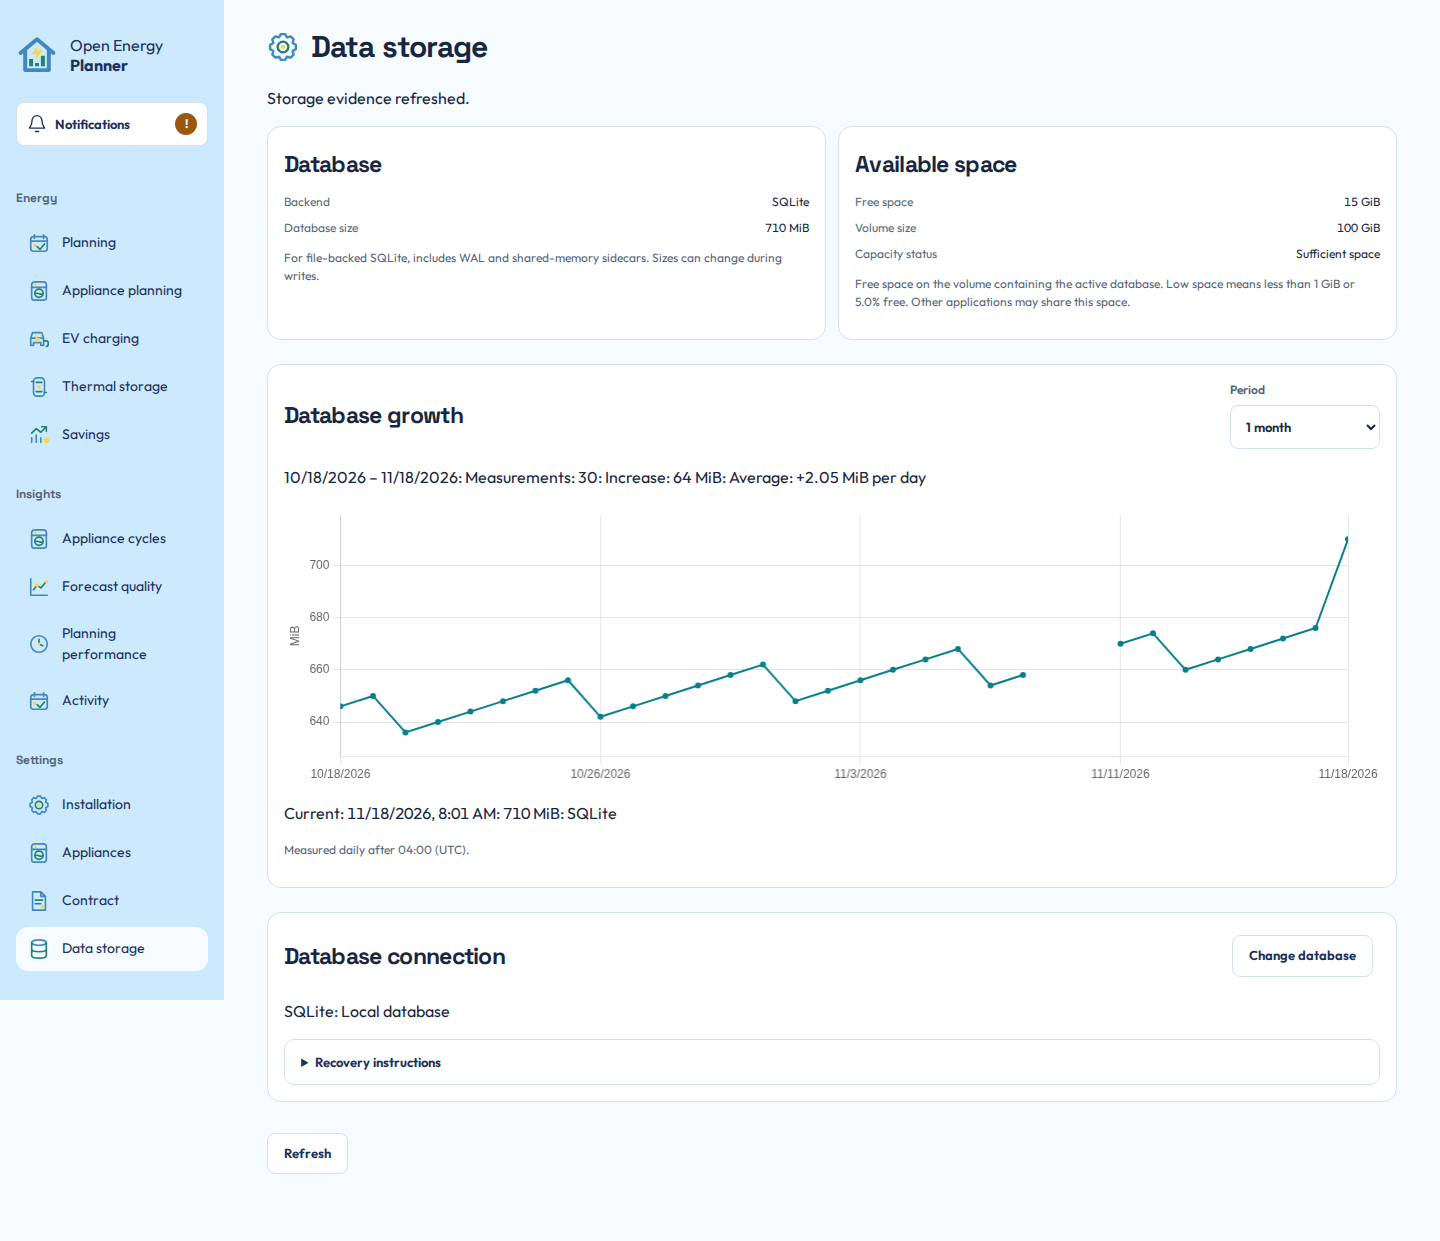
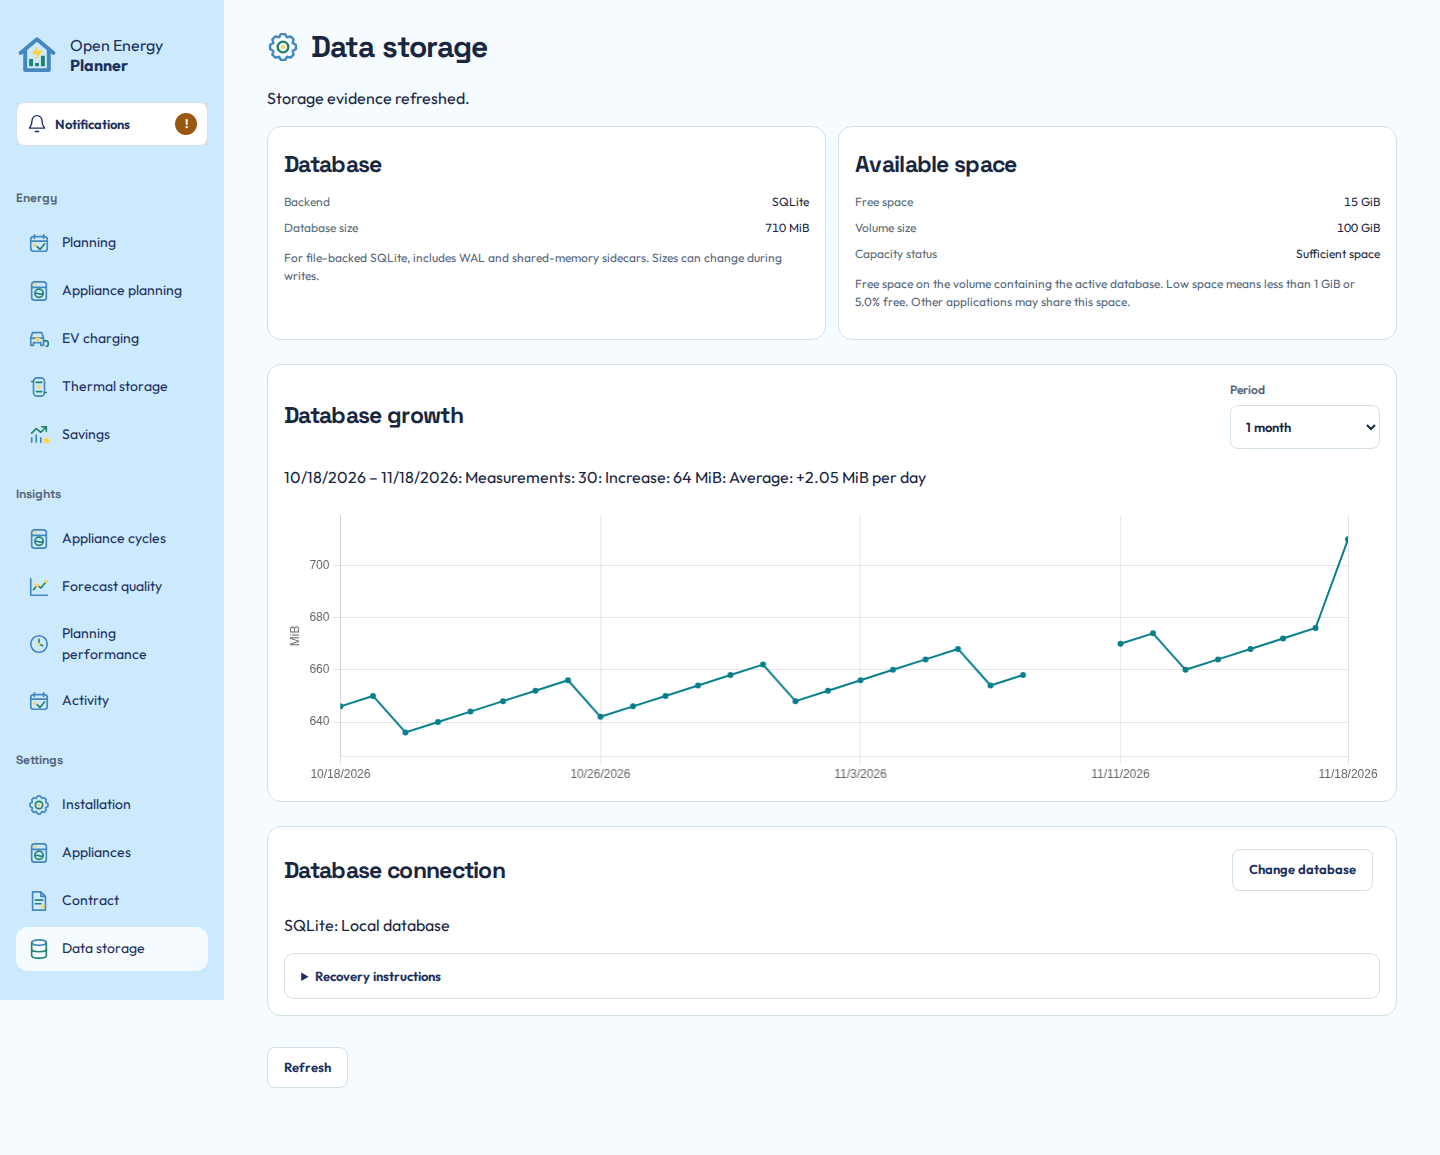
fix: remove redundant database chart captions

diff --git a/src/open_energy_planner/web/public/storage-history.js b/src/open_energy_planner/web/public/storage-history.js
@@ -44,8 +44,6 @@ export function bindStorageHistory(readToken, bytes, showDatabase) {
                 measurement = history.latest;
                 showDatabase(measurement || {...currentUsage, database_bytes: null});
             }
-            const sampleTime = `${String(history.sample_hour).padStart(2, "0")}:00`;
-            find("storage-history-note").textContent = history.timezone ? `Measured daily after ${sampleTime} (${history.timezone}).` : "Daily measurements start when the Home Assistant installation timezone is available.";
             if (!history.timezone) {
                 find("storage-history-summary").textContent = "Waiting for the Home Assistant installation timezone. Refresh after the connection is restored.";
                 return;
@@ -129,10 +127,16 @@ export function bindStorageHistory(readToken, bytes, showDatabase) {
     find("storage-period").addEventListener("change", () => load());
     find("storage-observation").addEventListener("change", event => inspect(Number(event.target.value)));
     find("storage-history-chart").addEventListener("keydown", event => {
-        if (!["ArrowLeft", "ArrowRight", "Home", "End"].includes(event.key) || !samples.length) return;
+        if (!["ArrowLeft", "ArrowRight", "Home", "End"].includes(event.key) || !samples.length || !chart) return;
         event.preventDefault();
         keyboardSelection = true;
         inspect(event.key === "Home" ? 0 : event.key === "End" ? samples.length - 1 : Math.max(0, Math.min(samples.length - 1, selected + (event.key === "ArrowRight" ? 1 : -1))));
+        const index = chart.data.datasets[0].data.findIndex(point => point.row === samples[selected]);
+        const point = chart.getDatasetMeta(0).data[index];
+        const active = [{datasetIndex: 0, index}];
+        chart.setActiveElements(active);
+        chart.tooltip.setActiveElements(active, {x: point.x, y: point.y});
+        chart.update();
     });
     find("storage-history-chart").addEventListener("pointerdown", () => { keyboardSelection = false; });
     find("storage-history-chart").addEventListener("pointermove", () => { keyboardSelection = false; });

diff --git a/src/open_energy_planner/web/public/storage-history.css b/src/open_energy_planner/web/public/storage-history.css
@@ -6,5 +6,7 @@
 .storage-history-heading select,#storage-observation {min-height:44px}
 .storage-history-plot {height:280px;position:relative;min-width:0}
 #storage-history-chart:focus-visible {outline:2px solid var(--oep-teal,#21836d);outline-offset:4px}
-#storage-history-selected {min-height:1.5em;font-variant-numeric:tabular-nums}
+#storage-history-selected {font-variant-numeric:tabular-nums}
+#storage-history-selected:empty {display:none}
+.storage-history-plot:not([hidden]) ~ #storage-history-selected {position:absolute;width:1px;height:1px;padding:0;margin:-1px;overflow:hidden;clip-path:inset(50%)}
 @media(max-width:640px) {.storage-history-heading label {width:100%}.storage-history-plot {height:240px}}

diff --git a/src/open_energy_planner/web/pages/data-storage.html b/src/open_energy_planner/web/pages/data-storage.html
@@ -16,7 +16,6 @@
 <div class="storage-history-plot" id="storage-history-plot" hidden><canvas id="storage-history-chart" tabindex="0" role="img" aria-label="Daily database size. Use Left and Right arrow keys to inspect measurements." aria-describedby="storage-history-selected"></canvas></div>
 <div id="storage-observation-field" hidden><label for="storage-observation">Observation</label><select id="storage-observation"></select></div>
 <p id="storage-history-selected" aria-live="polite"></p>
-<p id="storage-history-note" class="muted"></p>
 </section>
 </section>
 <section class="evidence-card storage-connection" aria-labelledby="connection-title" id="database-connection" hidden>

diff --git a/tests/frontend/browser/test_storage_history.py b/tests/frontend/browser/test_storage_history.py
@@ -99,6 +99,17 @@ def test_daily_storage_chart_periods_keyboard_gaps_and_recovery(daily_storage_hi
     assert page.locator("#storage-history-selected").inner_text() != first
     canvas.press("End")
     expect(page.locator("#storage-history-selected")).to_contain_text("SQLite")
+    expect(canvas).to_have_accessible_description(
+        page.locator("#storage-history-selected").text_content()
+    )
+    tooltip = page.evaluate(
+        "() => {const tooltip=Chart.getChart(document.getElementById('storage-history-chart')).tooltip;return {opacity:tooltip.opacity,title:tooltip.title,label:tooltip.body[0].lines[0]};}"
+    )
+    assert tooltip["opacity"] == 1 and "680 MiB" in tooltip["label"]
+    assert tooltip["title"] == ["11/18/2026, 4:00 AM"]
+    selected_bounds = page.locator("#storage-history-selected").bounding_box()
+    assert selected_bounds["width"] == 1 and selected_bounds["height"] == 1
+    assert "Measured daily after" not in page.locator("main").inner_text()
     page.locator("#storage-history-title").click()
     page.evaluate("window.scrollTo(0, 0)")
     page.screenshot(
@@ -277,6 +288,17 @@ def test_storage_history_empty_unknown_and_backend_changes(app_page):
     expect(page.locator("#storage-history-selected")).to_contain_text("SQLite")
     assert page.evaluate(
         "Chart.getChart(document.getElementById('storage-history-chart')).getDatasetMeta(0).dataset.segments.some(segment => segment.style?.borderColor === 'transparent')"
+    )
+    body["samples"][0]["database_bytes"] = None
+    page.get_by_role("button", name="Refresh", exact=True).click()
+    expect(page.locator("#storage-history-summary")).to_be_empty()
+    page.locator("#storage-history-chart").focus()
+    page.locator("#storage-history-chart").press("Home")
+    expect(page.locator("#storage-history-chart")).to_have_accessible_description(
+        page.locator("#storage-history-selected").text_content()
+    )
+    assert "Unknown" in page.evaluate(
+        "Chart.getChart(document.getElementById('storage-history-chart')).tooltip.body[0].lines[0]"
     )
 
 

diff --git a/docs/users/data-storage.md b/docs/users/data-storage.md
@@ -47,7 +47,7 @@ to inspect that point. Without a saved observation the size is **Unknown**.
 **Available space** still shows current volume capacity.
 
 Choose **Refresh** to show the current database size in both the card and the
-graph. That point is marked **Current**. The live view remains while changing
+graph. Its tooltip is marked **Current**. The live view remains while changing
 periods. Opening the page again returns to the saved daily view. Refresh never
 overwrites or adds a saved daily observation.
 
@@ -66,7 +66,9 @@ app was stopped remain gaps. After Refresh, today's live point can appear before
 scheduled observation. Two available points are needed to calculate growth.
 
 Hover a point or focus the chart and use the Left and Right arrow keys to inspect
-its timestamp, size, backend and estimation status. Home and End reach the first
+its timestamp, size, backend and estimation status in the tooltip. Screen readers
+receive the same selected details. The chart has no repeated size or schedule
+caption beneath it. Home and End reach the first
 and last retained observation in the selected period. Unknown size never becomes
 zero. When every size is unavailable, use **Observation** to inspect the recorded
 timestamps, backends and estimation status. Refresh updates the view without
